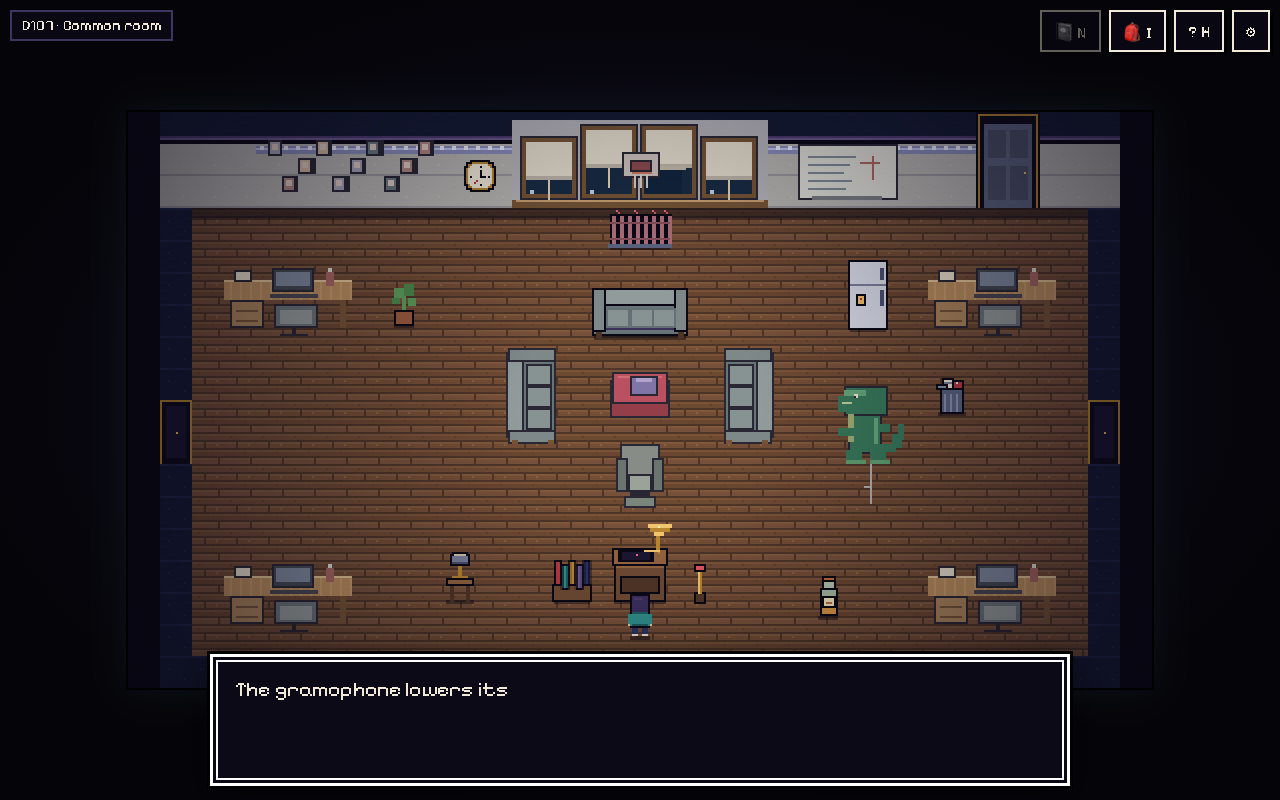
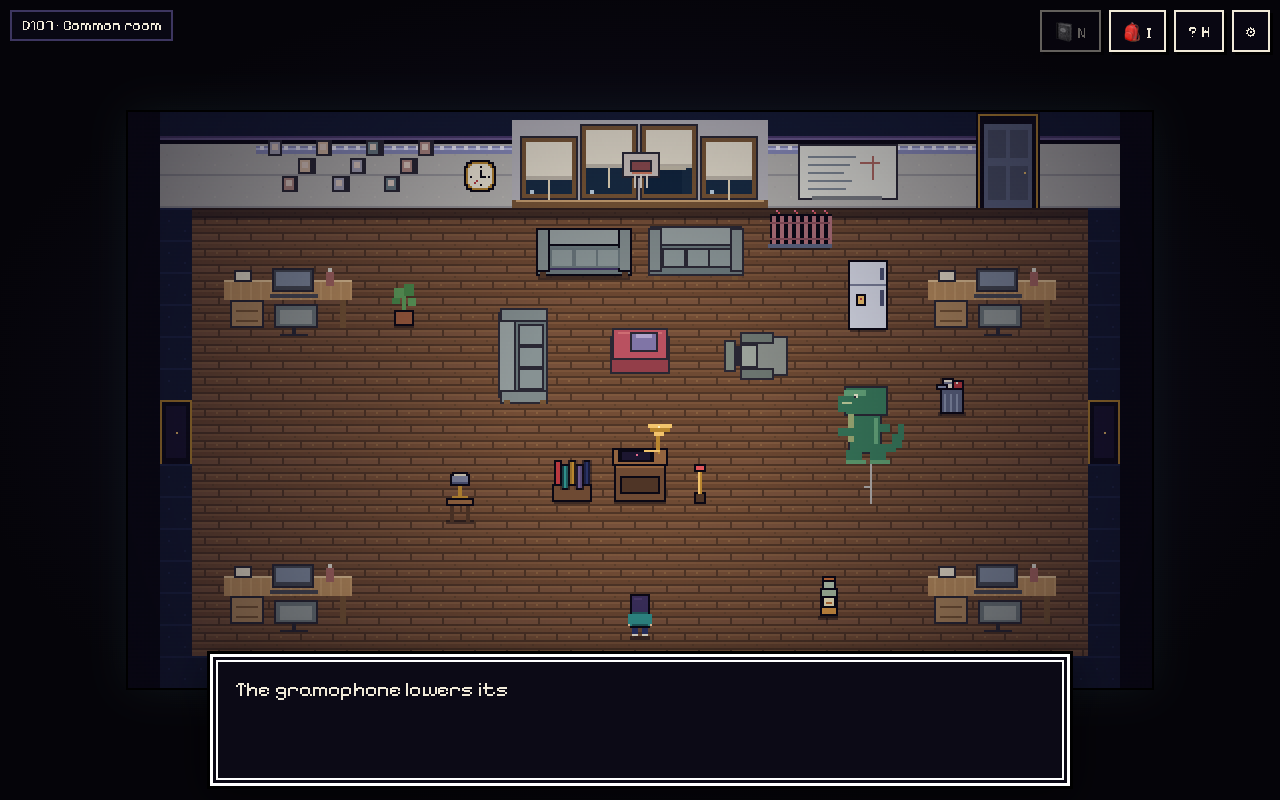
Center record player and correct the lounge seating arrangement

Changed region(s): [[0.375, 0.25, 0.6562, 0.7812], [0.3438, 0.6875, 0.375, 0.75], [0.3438, 0.5938, 0.375, 0.6562]]

diff --git a/schrodingers-home/src/data/roomLayouts.ts b/schrodingers-home/src/data/roomLayouts.ts
@@ -71,8 +71,8 @@ export const ROOMS: Record<RoomId, RoomLayout> = {
     gaps: [['top', 424, 456], ['bottom', 240, 272], ['left', 144, 176], ['right', 144, 176]],
     objects: [
       { id: 'dorm.desk.4', asset: 'dorm.desk', x: 432, y: 112, layer: 'y', solid: [64, 18], decor: true },
-      { id: 'dorm.couch.2', asset: 'dorm.couch.faceRight', x: 202, y: 166, layer: 'y', solid: [24, 40], decor: true },
-      { id: 'dorm.couch.3', asset: 'dorm.couch.faceLeft', x: 310, y: 166, layer: 'y', solid: [24, 40], decor: true },
+      { id: 'dorm.couch.2', asset: 'dorm.couch', x: 284, y: 84, layer: 'y', solid: [48, 14], decor: true },
+      { id: 'dorm.couch.3', asset: 'dorm.couch.faceRight', x: 198, y: 146, layer: 'y', solid: [24, 40], decor: true },
       { id: 'dorm.led', asset: 'dorm.led', x: 256, y: 23, layer: 'wall', decor: true },
       { id: 'dorm.collage', asset: 'dorm.collage', x: 112, y: 44, layer: 'wall', decor: true },
       { id: 'dorm.whiteboard', asset: 'dorm.whiteboard', x: 360, y: 44, layer: 'wall', decor: true },
@@ -86,18 +86,18 @@ export const ROOMS: Record<RoomId, RoomLayout> = {
       { id: 'door.common.east', x: 488, y: 176, layer: 'wall', hit: [16, 32], reach: 20 },
       { id: 'window', x: 256, y: 48, layer: 'wall', hit: [120, 38], reach: 34 },
       { id: 'clock', x: 176, y: 40, layer: 'wall', hit: [18, 18], reach: 34 },
-      { id: 'radiator', x: 256, y: 70, layer: 'y', solid: [32, 10], hit: [32, 20] },
+      { id: 'radiator', x: 336, y: 70, layer: 'y', solid: [32, 10], hit: [32, 20] },
       { id: 'sink', x: 350, y: 254, layer: 'y', hit: [32, 24], reach: 24 },
       { id: 'trash', x: 412, y: 152, layer: 'y', solid: [12, 8], hit: [16, 20] },
       { id: 'deco.fridge', asset: 'deco.fridge', x: 370, y: 110, layer: 'y', solid: [20, 12], decor: true },
-      { id: 'gramophone', x: 256, y: 246, layer: 'y', solid: [28, 14], hit: [30, 30], hitOffsetY: -10 },
-      { id: 'hatch', x: 256, y: 242, layer: 'y', hit: [18, 10], depthBias: 2, reach: 26 },
-      { id: 'lever', x: 286, y: 246, layer: 'y', solid: [6, 6], hit: [10, 20] },
-      { id: 'sleeves', x: 222, y: 246, layer: 'y', solid: [18, 8], hit: [20, 24] },
-      { id: 'couch', x: 256, y: 114, layer: 'y', solid: [48, 14], hit: [48, 28] },
-      { id: 'lamp', x: 166, y: 246, layer: 'y', solid: [14, 8], hit: [16, 28] },
-      { id: 'deco.table', asset: 'dorm.ottoman', x: 256, y: 154, layer: 'y', solid: [32, 8], decor: true },
-      { id: 'deco.armchair', asset: 'dorm.recliner', x: 256, y: 198, layer: 'y', solid: [24, 12], decor: true },
+      { id: 'gramophone', x: 256, y: 196, layer: 'y', solid: [28, 14], hit: [30, 30], hitOffsetY: -10 },
+      { id: 'hatch', x: 256, y: 192, layer: 'y', hit: [18, 10], depthBias: 2, reach: 26 },
+      { id: 'lever', x: 286, y: 196, layer: 'y', solid: [6, 6], hit: [10, 20] },
+      { id: 'sleeves', x: 222, y: 196, layer: 'y', solid: [18, 8], hit: [20, 24] },
+      { id: 'couch', x: 228, y: 84, layer: 'y', solid: [48, 14], hit: [48, 28] },
+      { id: 'lamp', x: 166, y: 206, layer: 'y', solid: [14, 8], hit: [16, 28] },
+      { id: 'deco.table', asset: 'dorm.ottoman', x: 256, y: 132, layer: 'y', solid: [32, 8], decor: true },
+      { id: 'deco.armchair', asset: 'dorm.recliner.faceLeft', x: 314, y: 134, layer: 'y', solid: [28, 18], decor: true },
       { id: 'deco.plant', asset: 'deco.plant', x: 138, y: 108, layer: 'y', solid: [10, 6], decor: true },
     ],
     doors: [

diff --git a/schrodingers-home/tests/rooms.test.ts b/schrodingers-home/tests/rooms.test.ts
@@ -79,13 +79,22 @@ describe('visible furniture spacing', () => {
     const desks=ROOMS.common.objects.filter(o=>o.asset==='dorm.desk');
     expect(desks).toHaveLength(4);
     expect(ROOMS.common.objects.some(o=>o.id.startsWith('dorm.chair.'))).toBe(false);
-    const facing=ROOMS.common.objects.filter(o=>o.id.startsWith('dorm.couch.'));
-    expect(facing.map(o=>o.asset)).toEqual(['dorm.couch.faceRight','dorm.couch.faceLeft']);
-    expect(facing[0].x).toBeLessThan(256);
-    expect(facing[1].x).toBeGreaterThan(256);
-    expect(facing[0].y).toBe(facing[1].y);
+    const back=ROOMS.common.objects.filter(o=>o.id==='couch'||o.id==='dorm.couch.2');
+    expect(back[0].y).toBe(back[1].y);
+    expect(back.every(o=>o.y<=90)).toBe(true);
+    const side=ROOMS.common.objects.find(o=>o.id==='dorm.couch.3')!;
+    const recliner=ROOMS.common.objects.find(o=>o.id==='deco.armchair')!;
+    expect(side.asset).toBe('dorm.couch.faceRight');
+    expect(recliner.asset).toBe('dorm.recliner.faceLeft');
+    expect(side.x).toBeLessThan(256);
+    expect(recliner.x).toBeGreaterThan(256);
+    const player=ROOMS.common.objects.find(o=>o.id==='gramophone')!;
+    expect(player.x).toBe(256);
+    expect(player.y-20).toBeGreaterThan(140);
+    expect(player.y-20).toBeLessThan(190);
+    expect(272-player.y).toBeGreaterThan(64);
     expect(new Set(desks.map(o=>`${o.x<256?'left':'right'}-${o.y<160?'top':'bottom'}`)).size).toBe(4);
     expect(ROOMS.common.objects.filter(o=>o.id==='couch'||o.id.startsWith('dorm.couch.'))).toHaveLength(3);
-    expect(ROOMS.common.objects.filter(o=>o.asset==='dorm.recliner')).toHaveLength(1);
+    expect(ROOMS.common.objects.filter(o=>o.asset?.startsWith('dorm.recliner'))).toHaveLength(1);
   });
 });

diff --git a/schrodingers-home/src/assets/manifest.ts b/schrodingers-home/src/assets/manifest.ts
@@ -137,7 +137,7 @@ for (const [id, w, h] of [
   ['led', 384, 8], ['collage', 84, 30], ['whiteboard', 50, 28],
   ['dino', 40, 64], ['desk', 64, 38], ['chair', 24, 28],
   ['ottoman', 30, 24], ['wardrobe', 44, 64], ['blinds', 80, 40],
-  ['sconce', 18, 14], ['rack', 30, 54], ['bed.blue', 60, 40], ['bed.sage', 40, 60], ['bed.sage.horizontal', 60, 40], ['couch', 48, 28], ['couch.faceRight', 28, 48], ['couch.faceLeft', 28, 48], ['recliner', 24, 32],
+  ['sconce', 18, 14], ['rack', 30, 54], ['bed.blue', 60, 40], ['bed.sage', 40, 60], ['bed.sage.horizontal', 60, 40], ['couch', 48, 28], ['couch.faceRight', 28, 48], ['couch.faceLeft', 28, 48], ['recliner', 24, 32], ['recliner.faceLeft', 32, 24],
 ] as const) deco(`dorm.${id}`, `dorm_${id}`, w, h, `D107 reference: ${id}`);
 
 // Items (16x16 icons, also used for world pickups)

diff --git a/schrodingers-home/src/assets/dorm.ts b/schrodingers-home/src/assets/dorm.ts
@@ -75,6 +75,10 @@ export const DORM:Record<string,Drawer> = {
     box(g,18,7,6,17,'#6b756f');box(g,6,15,12,9,'#9ba29a');
     r(g,7,24,10,2,ink);box(g,4,26,16,6,'#7a857b');
   },
+  'dorm.recliner.faceLeft':(g)=>{
+    g.save();g.translate(32,0);g.rotate(Math.PI/2);
+    DORM['dorm.recliner'](g,24,32);g.restore();
+  },
   'dorm.ottoman':(g)=>{box(g,0,4,30,19,'#933e49');box(g,1,0,28,16,'#b95160');r(g,4,2,22,1,'#ce6d73');box(g,10,2,14,10,'#8075a6');r(g,13,3,8,2,'#b1a4cc');},
   'dorm.dino':(g)=>{ // Green foil dinosaur balloon, with a trailing string.
     r(g,21,38,1,24,'#b4b0ad');r(g,18,53,4,1,'#b4b0ad');

diff --git a/schrodingers-home/README.md b/schrodingers-home/README.md
@@ -184,9 +184,9 @@ sage horizontal bed at the top and a vertical bed along the far-right wall.
 The floor plan is rotated for the game's view: hallway below, common in the
 middle, bay window ahead, bedrooms on either side. Furniture and circulation are
 adapted to the 512×288 canvas. The common room has a 28×14-tile floor and each
-bedroom a compact 22×11 floor, making common about 62% larger. Two vertical
-sofas face each other around the ottoman, with a third couch and recliner completing
-the lounge. Chairs are part of the desk sprites to keep circulation clear. Furniture
+bedroom a compact 22×11 floor, making common about 62% larger. Two couches sit with their backs against the top wall; a sideways sofa and
+recliner face inward toward the ottoman. The record player sits centrally below
+the lounge, clear of the entrance. Chairs are part of the desk sprites to keep circulation clear. Furniture
 and player sizes are preserved. The
 address-7 sensor is now a sealed/spilled juice bottle on the floor, with an orange stain in the spilled state. The vault door and quantum gadgets remain
 fictional gameplay additions. Original photos and resident names are not bundled;

diff --git a/schrodingers-home/ART_REPLACEMENT_GUIDE.md b/schrodingers-home/ART_REPLACEMENT_GUIDE.md
@@ -201,6 +201,7 @@ Regenerate this table at any time with `npx tsx scripts/asset-table.ts`.
 | `dorm.couch.faceRight` | decor | `public/assets/sprites/objects/dorm_couch.faceRight.png` | 28×48 | 0.5, 1 | D107 reference: couch.faceRight |
 | `dorm.couch.faceLeft` | decor | `public/assets/sprites/objects/dorm_couch.faceLeft.png` | 28×48 | 0.5, 1 | D107 reference: couch.faceLeft |
 | `dorm.recliner` | decor | `public/assets/sprites/objects/dorm_recliner.png` | 24×32 | 0.5, 1 | D107 reference: recliner |
+| `dorm.recliner.faceLeft` | decor | `public/assets/sprites/objects/dorm_recliner.faceLeft.png` | 32×24 | 0.5, 1 | D107 reference: recliner.faceLeft |
 | `item.prism` | item | `public/assets/sprites/items/prism.png` | 16×16 | 0.5, 1 | Small glass prism |
 | `item.cassette` | item | `public/assets/sprites/items/cassette.png` | 16×16 | 0.5, 1 | Red cassette tape |
 | `item.key` | item | `public/assets/sprites/items/metronome_key.png` | 16×16 | 0.5, 1 | Brass wind-up key |
